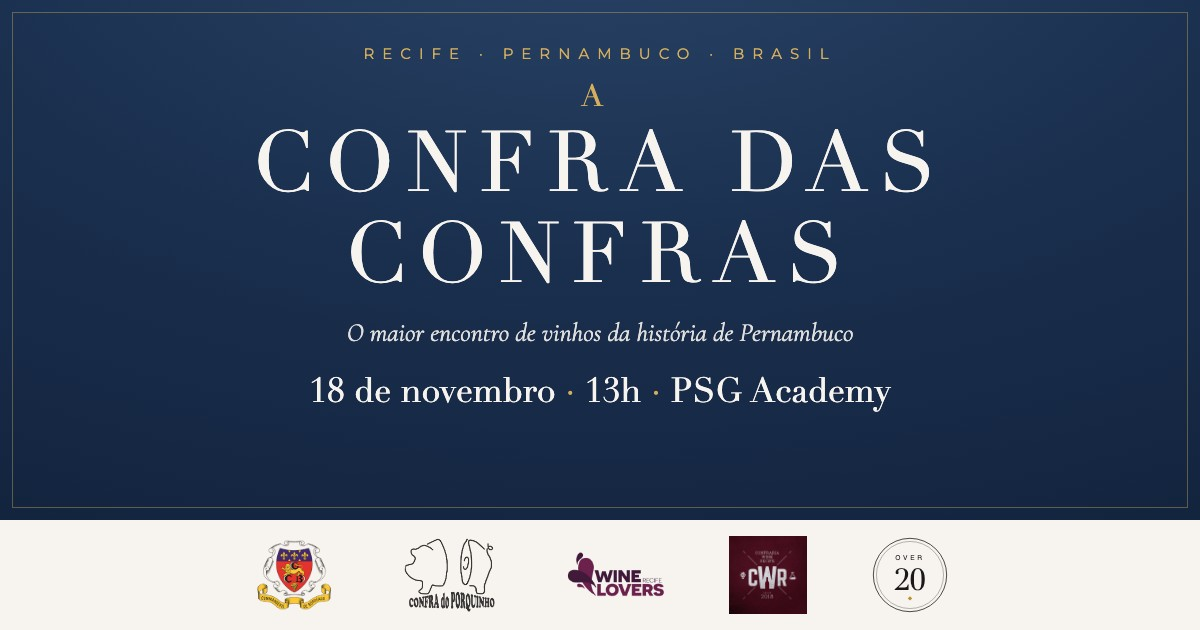
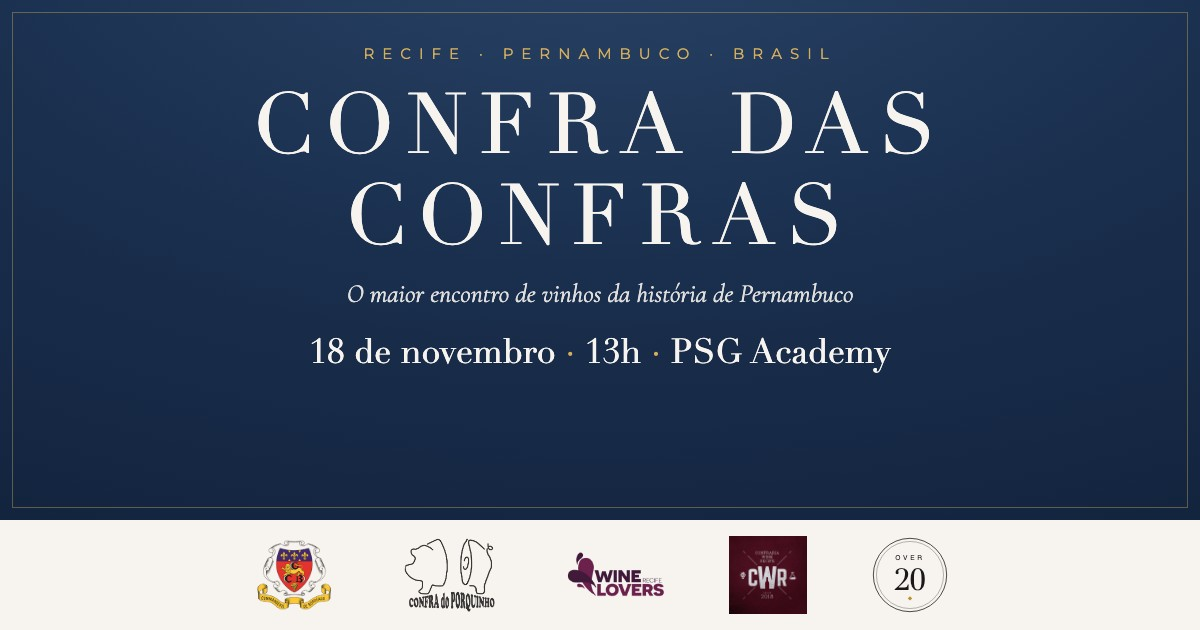
Confras: marca sem o 'A', média L/confrade, foto do Ott rosé (Épice), OG atualizada

Changed region(s): [[0.2158, 0.1206, 0.7708, 0.4825], [0.2467, 0.5127, 0.74, 0.6635]]

diff --git a/supabase/functions/confras-worker/index.ts b/supabase/functions/confras-worker/index.ts
@@ -25,7 +25,7 @@ function shell(titulo: string, corpo: string, participanteId?: string) {
   <div style="max-width:560px;margin:0 auto;padding:24px 16px">
     <div style="background:#101F38;color:#F7F3EE;text-align:center;padding:36px 24px;border:1px solid #B8922A">
       <div style="font-size:10px;letter-spacing:5px;color:#D4AE5C;font-family:Helvetica,Arial,sans-serif">RECIFE · 18 DE NOVEMBRO DE 2026 · 13H</div>
-      <div style="font-size:30px;letter-spacing:6px;margin-top:12px">A CONFRA<br>DAS CONFRAS</div>
+      <div style="font-size:30px;letter-spacing:6px;margin-top:12px">CONFRA<br>DAS CONFRAS</div>
       <div style="font-size:13px;font-style:italic;color:#D4AE5C;margin-top:10px">O maior encontro de vinhos da história de Pernambuco</div>
     </div>
     <div style="background:#fff;border:1px solid #E8E0D5;border-top:none;padding:32px 28px;color:#1A1A1A;font-size:15px;line-height:1.7">
@@ -47,7 +47,7 @@ async function render(tipo: string, dados: Record<string, unknown>, cfg: Record<
   switch (tipo) {
     case "boas-vindas":
       return {
-        subject: "🥂 Presença confirmada — A Confra das Confras 2026",
+        subject: "🥂 Presença confirmada — Confra das Confras 2026",
         html: shell(`Presença confirmada, ${nome}!`, `
           <p>Que alegria ter você na mesa. Anote: <strong>quarta-feira, 18 de novembro, 13h</strong>, na <strong>Paris Saint-Germain Academy</strong>, Recife.</p>
           <p>Lembre da regra de ouro: cada confrade leva no mínimo <strong>1,5 litro</strong> de vinho — uma Magnum. Pode trazer formatos maiores sozinho, dividir com outros confrades e levar quantas garrafas quiser.</p>
@@ -56,7 +56,7 @@ async function render(tipo: string, dados: Record<string, unknown>, cfg: Record<
     case "garrafa-registrada": {
       const v = `${esc(dados.vinho)}${dados.safra ? " " + esc(dados.safra) : ""}`;
       return {
-        subject: `🍷 ${String(dados.vinho)} está na mesa — A Confra das Confras`,
+        subject: `🍷 ${String(dados.vinho)} está na mesa — Confra das Confras`,
         html: shell(`Grande escolha, ${nome}!`, `
           <p>Sua garrafa está registrada na carta da festa:</p>
           <p style="background:#FAF5EB;border:1px dashed #B8922A;padding:16px;text-align:center;font-size:17px">
@@ -75,7 +75,7 @@ async function render(tipo: string, dados: Record<string, unknown>, cfg: Record<
     }
     case "pagamento-confirmado":
       return {
-        subject: "✅ Pagamento confirmado — A Confra das Confras",
+        subject: "✅ Pagamento confirmado — Confra das Confras",
         html: shell(`Tudo certo, ${nome}!`, `
           <p>Seu pagamento do rateio foi <strong>confirmado</strong>. Obrigado!</p>
           <p>Agora é só aguardar o grande dia — 18 de novembro, 13h. 🥂</p>`, pid),
@@ -84,13 +84,13 @@ async function render(tipo: string, dados: Record<string, unknown>, cfg: Record<
       return {
         subject: "🗳 A urna está aberta — vote nos melhores vinhos",
         html: shell(`${nome}, a votação começou!`, `
-          <p>A urna d'A Confra das Confras está aberta. Vote nos melhores vinhos da festa — um voto por categoria, e você pode mudar de ideia enquanto a urna estiver aberta.</p>`, pid),
+          <p>A urna da Confra das Confras está aberta. Vote nos melhores vinhos da festa — um voto por categoria, e você pode mudar de ideia enquanto a urna estiver aberta.</p>`, pid),
       };
     case "resultados":
       return {
         subject: "🏆 Saiu o resultado — os melhores vinhos da festa",
         html: shell(`${nome}, temos vencedores!`, `
-          <p>A apuração terminou e o pódio d'A Confra das Confras 2026 está publicado no site. Veja quem levou o título de Melhor Vinho da Festa.</p>`, pid),
+          <p>A apuração terminou e o pódio da Confra das Confras 2026 está publicado no site. Veja quem levou o título de Melhor Vinho da Festa.</p>`, pid),
       };
     case "lembrete": {
       const garrafas = Array.isArray(dados.garrafas) ? dados.garrafas as Record<string, unknown>[] : [];
@@ -103,10 +103,10 @@ async function render(tipo: string, dados: Record<string, unknown>, cfg: Record<
         : `<p>Rateio: <strong style="color:#B85C2A">pendente</strong> — pague pelo painel para garantir seu lugar.</p>`;
       const quando = String(dados.quando ?? "");
       const assunto = quando === "hoje"
-        ? "🍷 É HOJE — A Confra das Confras, 13h!"
+        ? "🍷 É HOJE — Confra das Confras, 13h!"
         : quando === "1-semana"
-          ? "📅 Falta 1 semana — A Confra das Confras"
-          : "📅 Falta 1 mês — A Confra das Confras";
+          ? "📅 Falta 1 semana — Confra das Confras"
+          : "📅 Falta 1 mês — Confra das Confras";
       const titulo = quando === "hoje"
         ? `${nome}, é hoje! 🥂`
         : quando === "1-semana"
@@ -122,7 +122,7 @@ async function render(tipo: string, dados: Record<string, unknown>, cfg: Record<
       };
     }
     default:
-      return { subject: "A Confra das Confras 2026", html: shell("Novidades", "<p>Acesse o site para ver as novidades.</p>", pid) };
+      return { subject: "Confra das Confras 2026", html: shell("Novidades", "<p>Acesse o site para ver as novidades.</p>", pid) };
   }
 }
 

diff --git a/confras/telao.html b/confras/telao.html
@@ -3,7 +3,7 @@
 <head>
 <meta charset="UTF-8">
 <meta name="viewport" content="width=device-width, initial-scale=1.0">
-<title>Telão — A Confra das Confras 2026</title>
+<title>Telão — Confra das Confras 2026</title>
 <meta name="robots" content="noindex,nofollow">
 <link rel="icon" href="../favicon.png">
 <link href="https://fonts.googleapis.com/css2?family=Playfair+Display:ital,wght@0,400;0,600;1,400&family=Cormorant+Garamond:ital@1&family=Montserrat:wght@300;400;500;600&display=swap" rel="stylesheet">
@@ -46,7 +46,7 @@ body{background:radial-gradient(130% 130% at 50% -20%,var(--wine-lt) 0%,var(--wi
 
 <div class="gate" id="gate">
   <div style="font-size:10px;letter-spacing:5px;text-transform:uppercase;color:var(--gold-lt)">Telão da festa</div>
-  <h1 style="font-family:'Playfair Display',serif;font-weight:400;font-size:22px;margin-top:10px">A Confra das Confras</h1>
+  <h1 style="font-family:'Playfair Display',serif;font-weight:400;font-size:22px;margin-top:10px">Confra das Confras</h1>
   <input type="password" id="tok" placeholder="Token de acesso">
   <button onclick="entrar()">Abrir telão</button>
 </div>
@@ -54,7 +54,7 @@ body{background:radial-gradient(130% 130% at 50% -20%,var(--wine-lt) 0%,var(--wi
 <div id="app" class="hidden">
   <div class="clock" id="clock"></div>
   <div class="top">
-    <div class="k">A Confra das Confras · 2026</div>
+    <div class="k">Confra das Confras · 2026</div>
     <h1>Apuração ao vivo</h1>
     <div class="sub">Os melhores vinhos da festa, eleitos pelos confrades</div>
   </div>
@@ -62,6 +62,7 @@ body{background:radial-gradient(130% 130% at 50% -20%,var(--wine-lt) 0%,var(--wi
     <div class="st"><div class="n" id="s-conf">–</div><div class="l">confrades</div></div>
     <div class="st"><div class="n" id="s-gar">–</div><div class="l">garrafas</div></div>
     <div class="st"><div class="n" id="s-lit">–</div><div class="l">litros</div></div>
+    <div class="st"><div class="n" id="s-media">–</div><div class="l">L / confrade</div></div>
     <div class="st"><div class="n" id="s-votos">–</div><div class="l">votos</div></div>
   </div>
   <div class="grid" id="grid"></div>
@@ -104,6 +105,7 @@ function tick() {
     document.getElementById('s-conf').textContent = pessoas.length;
     document.getElementById('s-gar').textContent = vinhos.length;
     document.getElementById('s-lit').textContent = (Math.round(litros * 10) / 10).toLocaleString('pt-BR');
+    document.getElementById('s-media').textContent = pessoas.length ? (Math.round(litros / pessoas.length * 100) / 100).toLocaleString('pt-BR') : '–';
     document.getElementById('s-votos').textContent = totalVotos;
 
     var porCat = {}, ordem = [];

diff --git a/confras/index.html b/confras/index.html
@@ -3,9 +3,9 @@
 <head>
 <meta charset="UTF-8">
 <meta name="viewport" content="width=device-width, initial-scale=1.0">
-<title>A Confra das Confras 2026 — O maior encontro de vinhos da história de Pernambuco</title>
+<title>Confra das Confras 2026 — O maior encontro de vinhos da história de Pernambuco</title>
 <meta name="description" content="Pela primeira vez, as mais importantes confrarias do Recife reunidas em uma única mesa. 18 de novembro de 2026, 13h.">
-<meta property="og:title" content="A Confra das Confras 2026">
+<meta property="og:title" content="Confra das Confras 2026">
 <meta property="og:description" content="O maior encontro de vinhos da história de Pernambuco. Grandes vinhos, grandes garrafas, grandes amigos.">
 <meta property="og:image" content="https://lulidias.com/confras/og.jpg">
 <meta property="og:image:width" content="1200">
@@ -207,7 +207,7 @@ footer .org a{color:var(--gold-lt);text-decoration:none}
     </g>
     <rect x="57" y="57" width="6" height="6" transform="rotate(45 60 60)" fill="#D4AE5C"/>
   </svg>
-  <h1><span class="a">A</span>Confra<br>das Confras</h1>
+  <h1>Confra<br>das Confras</h1>
   <div class="hero-year">2026</div>
   <p class="hero-tag">O maior encontro de vinhos da história de Pernambuco. Pela primeira vez, as mais importantes confrarias do Recife reunidas em uma única mesa.</p>
   <div class="orn"><span class="l"></span><span class="d"></span><span class="r"></span></div>
@@ -379,6 +379,7 @@ footer .org a{color:var(--gold-lt);text-decoration:none}
       <div class="ws"><div class="n" id="st-conf">0</div><div class="k">confrades</div></div>
       <div class="ws"><div class="n" id="st-gar">0</div><div class="k">garrafas</div></div>
       <div class="ws"><div class="n" id="st-lit">0</div><div class="k">litros</div></div>
+      <div class="ws"><div class="n" id="st-media">0</div><div class="k">L por confrade</div></div>
     </div>
     <div id="wine-groups"></div>
     <p id="wine-empty" class="rule-note hidden">Seja o primeiro a registrar uma garrafa.</p>
@@ -801,6 +802,7 @@ function refreshPublic() {
     document.getElementById('st-conf').textContent = pessoas.length;
     document.getElementById('st-gar').textContent = vinhos.length;
     document.getElementById('st-lit').textContent = fmtLitros(litros);
+    document.getElementById('st-media').textContent = pessoas.length ? fmtLitros(Math.round(litros / pessoas.length * 100) / 100) : '—';
     // vinhos — carta agrupada por categoria (ordem de degustação) e país
     vinhosCache = vinhos;
     var groups = document.getElementById('wine-groups'); groups.innerHTML = '';

diff --git a/confras/admin.html b/confras/admin.html
@@ -3,7 +3,7 @@
 <head>
 <meta charset="UTF-8">
 <meta name="viewport" content="width=device-width, initial-scale=1.0">
-<title>Admin — A Confra das Confras 2026</title>
+<title>Admin — Confra das Confras 2026</title>
 <meta name="robots" content="noindex,nofollow">
 <link rel="icon" href="../favicon.png">
 <link href="https://fonts.googleapis.com/css2?family=Playfair+Display:wght@400;600&family=Montserrat:wght@300;400;500;600;700&display=swap" rel="stylesheet">
@@ -52,7 +52,7 @@ a{color:var(--wine-md)}
 <body>
 
 <div class="gate" id="gate">
-  <h1>A Confra das Confras</h1>
+  <h1>Confra das Confras</h1>
   <p>Painel de administração. Informe o token de acesso.</p>
   <input type="password" id="tok-in" placeholder="Token">
   <button class="btn" onclick="tryToken()">Entrar</button>
@@ -60,7 +60,7 @@ a{color:var(--wine-md)}
 
 <div id="app" class="hidden">
 <div class="top">
-  <div><h1>A Confra das Confras 2026</h1><div class="sub">Painel de administração</div></div>
+  <div><h1>Confra das Confras 2026</h1><div class="sub">Painel de administração</div></div>
   <div style="display:flex;gap:8px">
     <a class="btn ghost" href="index.html" style="text-decoration:none">Ver site</a>
     <button class="btn ghost" onclick="exportCSV()">Exportar CSV</button>

diff --git a/confras/og-source.html b/confras/og-source.html
@@ -21,7 +21,7 @@ h1 .a{display:block;font-size:30px;letter-spacing:16px;color:#D4AE5C;margin-bott
 <body>
 <div class="hero">
   <div class="k">RECIFE · PERNAMBUCO · BRASIL</div>
-  <h1><span class="a">A</span>CONFRA DAS CONFRAS</h1>
+  <h1>CONFRA DAS CONFRAS</h1>
   <div class="tag">O maior encontro de vinhos da história de Pernambuco</div>
   <div class="when">18 de novembro<b>·</b>13h<b>·</b>PSG Academy</div>
 </div>
